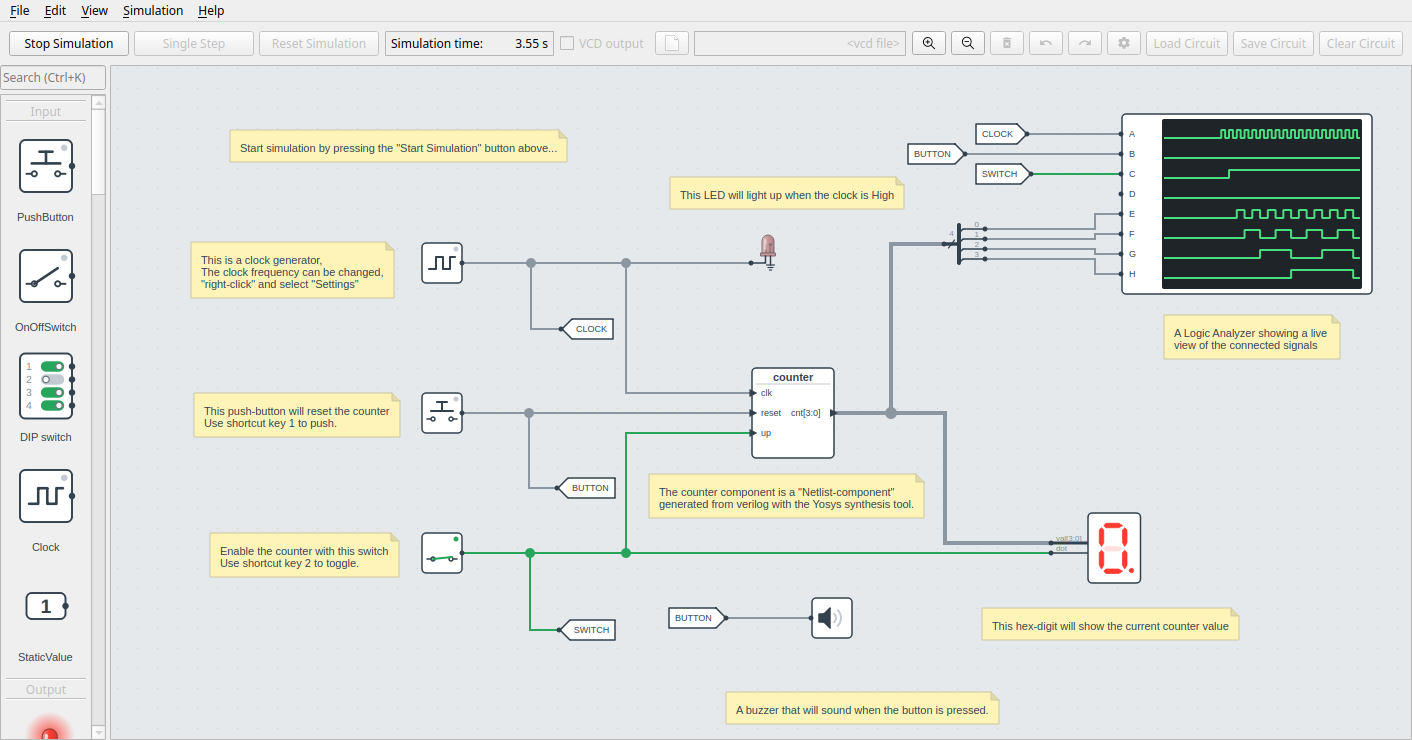
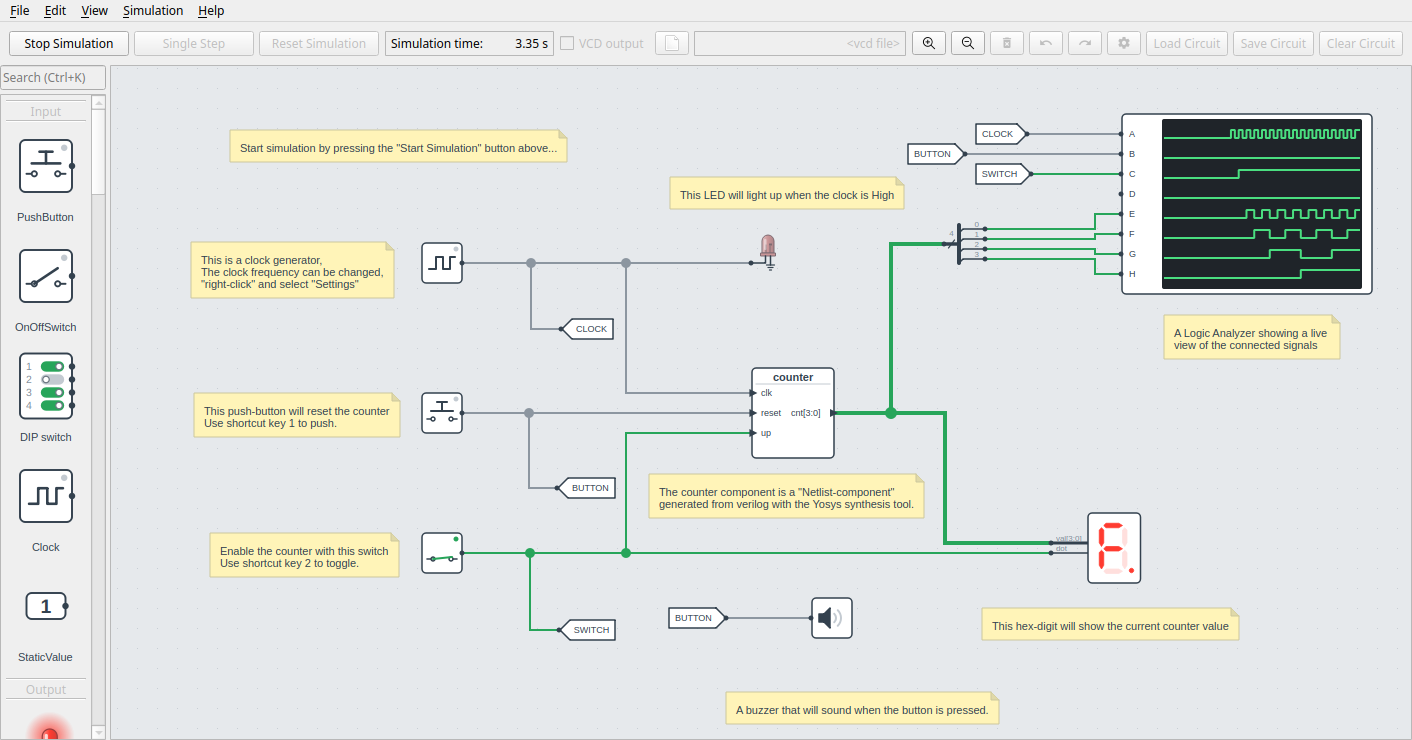
Sample the value from before a change in the logic analyzer
A sample at the time of a clock edge saw the clock before or after the edge,
depending on the order of the events at that time. That order changes with how
a run is split, so the clock could look uneven, like with Step Clock.

diff --git a/src/digsim/circuit/components/_logic_analyzer.py b/src/digsim/circuit/components/_logic_analyzer.py
@@ -1,4 +1,4 @@
-# Copyright (c) Fredrik Andersson, 2023-2025
+# Copyright (c) Fredrik Andersson, 2023-2026
 # All rights reserved
 
 """Module with Logic Analyzer component"""
@@ -8,7 +8,7 @@ from __future__ import annotations
 import typing
 from typing import TYPE_CHECKING
 
-from .atoms import CallbackComponent, Parameter, PortOutDelta, PortWire
+from .atoms import VALUE_TYPE, CallbackComponent, Parameter, PortIn, PortOutDelta
 
 
 if TYPE_CHECKING:
@@ -18,6 +18,9 @@ if TYPE_CHECKING:
 class LogicAnalyzer(CallbackComponent):
     """
     A logic analyzer, keeps the last 100 samples of each input to show them in the GUI.
+    A sample is the value an input had just before the time of the sample: an input that
+    changes at the same time, like on the edge of a clock, is sampled before the change,
+    whatever the order of the events at that time.
 
     Ports:
         A, B, ..., H: Inputs.
@@ -33,27 +36,53 @@ class LogicAnalyzer(CallbackComponent):
     def __init__(self, circuit: Circuit, name: str | None = None, sample_rate: int = 100) -> None:
         super().__init__(circuit, name)
         self.data_dict: dict[str, list[int]] = {}
+        # The value of each input, the time it last changed, and its value before that
+        self._values: dict[str, VALUE_TYPE] = {}
+        self._changed_ns: dict[str, int] = {}
+        self._before: dict[str, VALUE_TYPE] = {}
         for portname in self.PORTLIST:
-            self.add_port(PortWire(self, portname))
+            self.add_port(PortIn(self, portname))
             self.data_dict[portname] = [0] * 100
         self._feedback = PortOutDelta(self, "feedback")
         self._feedback.update_parent(True)
+        # The level of the feedback, it toggles at each sample
+        self._sample_level: VALUE_TYPE = "X"
         self.parameter_set("sample_rate", sample_rate)
         self.reconfigure()
 
     def default_state(self) -> None:
+        for portname in self.PORTLIST:
+            self._values[portname] = self.port(portname).value
+            self._changed_ns[portname] = -1
+            self._before[portname] = self._values[portname]
+        self._sample_level = "X"
         self._feedback.value = 1
 
     def update(self) -> None:
-        if self._feedback.value == 1:
-            self._feedback.value = 0
-        else:
-            self._feedback.value = 1
+        now = self.circuit.time_ns
+        level = self._feedback.value
+        if level == self._sample_level:
+            # An input changed
+            for portname in self.PORTLIST:
+                value = self.port(portname).value
+                old = self._values.get(portname, "X")
+                if value != old:
+                    if self._changed_ns.get(portname) != now:
+                        self._before[portname] = old
+                        self._changed_ns[portname] = now
+                    self._values[portname] = value
+            return
+        self._sample_level = level
+        self._feedback.value = 0 if level == 1 else 1
 
         # Replace the lists instead of changing them, the GUI thread reads them while painting
         for portname in self.PORTLIST:
-            value = 1 if self.port(portname).value == 1 else 0
-            self.data_dict[portname] = [*self.data_dict[portname][1:], value]
+            value = (
+                self._before[portname]
+                if self._changed_ns.get(portname) == now
+                else self.port(portname).value
+            )
+            self.data_dict[portname] = [*self.data_dict[portname][1:], 1 if value == 1 else 0]
         super().update()
 
     def reconfigure(self) -> None:

diff --git a/tests/test_logic_analyzer.py b/tests/test_logic_analyzer.py
@@ -35,3 +35,31 @@ def test_logic_analyzer_gui_default():
     """A logic analyzer added in the GUI samples at the rate of one made in Python"""
     default = LogicAnalyzer.get_parameters()["sample_rate"]["default"]
     assert default == LogicAnalyzer(Circuit()).parameter_get("sample_rate")
+
+
+def test_logic_analyzer_samples_before_a_change_at_the_same_time():
+    """
+    A clock edge at the time of a sample is sampled before the edge, also when the run
+    is split in steps (like Step Clock), so a clock looks the same either way
+    """
+    from digsim.app._clock_step import step_clock
+    from digsim.circuit.components import Clock
+
+    def analyzer_run(stepped):
+        circuit = Circuit()
+        clock = Clock(circuit, frequency=5)
+        analyzer = LogicAnalyzer(circuit, sample_rate=20)
+        clock.O.wire = analyzer.A
+        circuit.init()
+        if stepped:
+            for _ in range(6):
+                step_clock(circuit)
+        else:
+            circuit.run_until(ns=1_199_999_999)
+        return analyzer.signal_data()["A"][-20:]
+
+    samples = analyzer_run(stepped=False)
+    assert samples == analyzer_run(stepped=True)
+    # The clock toggles every 100 ms, every second sample: two samples high, two low. The
+    # last one is at 1150 ms, the clock is high from 1100 ms.
+    assert samples[-8:] == [1, 0, 0, 1, 1, 0, 0, 1]

diff --git a/docs/gui.md b/docs/gui.md
@@ -299,7 +299,7 @@ presses the button or toggles the switch.
 | ![Hex digit](images/HexDigit.png) | **Hex Digit**: shows a bus value in hexadecimal, with 1–8 digits (4 bits each) and an optional decimal point. |
 | ![7-segment](images/SevenSegment.png) | **7-Segment Display**: like a hex digit, but each segment is controlled individually. |
 | ![Buzzer](images/components/Buzzer.png) | **Buzzer**: plays a tone, with a selectable note, when its input is high. |
-| ![Logic analyzer](images/components/Analyzer.png) | **Logic Analyzer**: plots signal levels over time, live. |
+| ![Logic analyzer](images/components/Analyzer.png) | **Logic Analyzer**: plots signal levels over time, live. A sample at the time an input changes, like at a clock edge, shows the value from just before. |
 | ![Probe](images/components/Probe.png) | **Probe**: shows the value of a wire or a bus (1–32 bits) in hexadecimal, decimal or binary, "X" in red when it is undefined and "Z" in blue when nothing drives it. Right-click a wire and choose **Add probe** to put one on it. The radix can be changed in its settings. |
 
 ### Logic gates

diff --git a/CHANGELOG.md b/CHANGELOG.md
@@ -21,6 +21,7 @@
  - New component: Counter, with a width, an optional clock enable, up/down and load, in Python and in the GUI
  - New components: Decoder and Demultiplexer, and the MUX can have 16 inputs
  - GUI: Simulation > Step Clock (F10) runs to the next rising edge of a clock and lets the logic settle, to step through a CPU one clock cycle at a time
+ - The Logic Analyzer samples an input that changes at the time of a sample, like on a clock edge, with its value from just before. Before, a clock could look uneven, depending on the order of the events at the same time.
 
 ## v1.8.0
  - GUI: a new look. All components are drawn in one style: gates, LEDs, buffers and bus splitters as symbols only, devices like switches and displays with a white body, on a light background with a grid of dots. Most components are smaller, a selected one is blue, and green means on everywhere.
